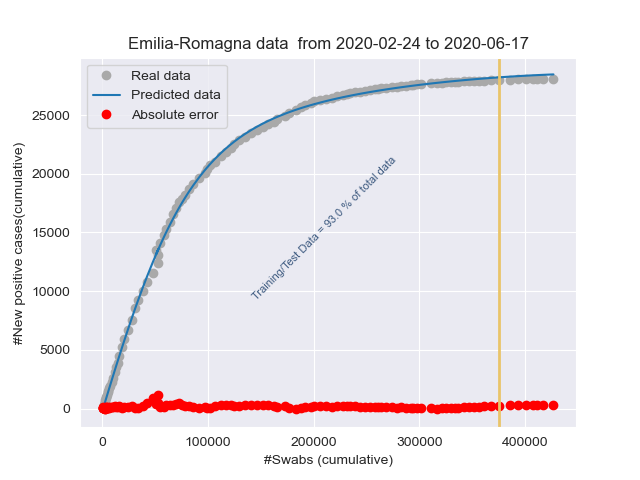
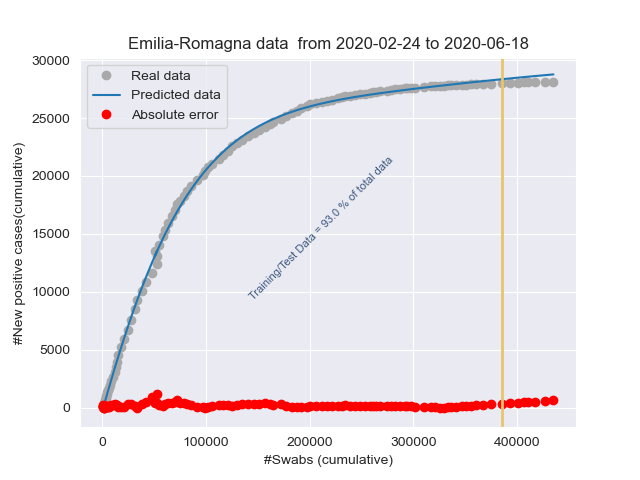
Add files via upload

diff --git a/stat_Friuli Venezia Giulia.html b/stat_Friuli Venezia Giulia.html
@@ -1,1 +1,1 @@
-<!DOCTYPE html><html lang="it"><head><title>Results</title><meta charset="utf-8"><meta name="viewport" content="width=device-width, initial-scale=1"><link rel="stylesheet" href="bootstrap.min.css"><script src="https://ajax.googleapis.com/ajax/libs/jquery/3.4.1/jquery.min.js"></script><script src="https://maxcdn.bootstrapcdn.com/bootstrap/3.4.1/js/bootstrap.min.js"></script></head><body><h3>Day: 2020-06-17</h3><p class="lead my-3">New positive cases: <b>2</b></p><p class="lead my-3">Variation of positive cases: <b>100.0%</b></p><p class="lead my-3">Number of swabs: <b>3624.0</b></p><p class="lead my-3">Variation of swabs: <b>2.23%</b></p><p class="lead my-3">Postive cases/Swabs: <b>0.06 %</b></p><p class="lead my-3">Number of people admitted to Intensive care: <b>0</b></p><p class="lead my-3">Number of recovered people: <b>2.0</b></p><p class="lead my-3">Number of dead people: <b>0.0</b></p><h3>Total</h3><p class="lead my-3">Population of  Friuli Venezia Giulia: <b>1215220</b> <a href="http://dati.istat.it/Index.aspx?QueryId=18548" target="_blank">ISTAT data</a></p><p class="lead my-3">Total number of positive cases from 2020-02-24 00:00:00 to 2020-06-17: <b> 3299</b></p><p class="lead my-3">Total number of swabs from 2020-02-24 00:00:00 to 2020-06-17: <b> 166064</b></p><p class="lead my-3">TotalSwabs/Population: <b> 13.67%</b></p></body></html>
+<!DOCTYPE html><html lang="it"><head><title>Results</title><meta charset="utf-8"><meta name="viewport" content="width=device-width, initial-scale=1"><link rel="stylesheet" href="bootstrap.min.css"><script src="https://ajax.googleapis.com/ajax/libs/jquery/3.4.1/jquery.min.js"></script><script src="https://maxcdn.bootstrapcdn.com/bootstrap/3.4.1/js/bootstrap.min.js"></script></head><body><h3>Day: 2020-06-18</h3><p class="lead my-3">New positive cases: <b>2</b></p><p class="lead my-3">Variation of positive cases: <b>0.0%</b></p><p class="lead my-3">Number of swabs: <b>1421.0</b></p><p class="lead my-3">Variation of swabs: <b>0.86%</b></p><p class="lead my-3">Postive cases/Swabs: <b>0.14 %</b></p><p class="lead my-3">Number of people admitted to Intensive care: <b>1</b></p><p class="lead my-3">Number of recovered people: <b>4.0</b></p><p class="lead my-3">Number of dead people: <b>0.0</b></p><h3>Total</h3><p class="lead my-3">Population of  Friuli Venezia Giulia: <b>1215220</b> <a href="http://dati.istat.it/Index.aspx?QueryId=18548" target="_blank">ISTAT data</a></p><p class="lead my-3">Total number of positive cases from 2020-02-24 00:00:00 to 2020-06-18: <b> 3301</b></p><p class="lead my-3">Total number of swabs from 2020-02-24 00:00:00 to 2020-06-18: <b> 167485</b></p><p class="lead my-3">TotalSwabs/Population: <b> 13.78%</b></p></body></html>

diff --git a/stat_Lombardia.html b/stat_Lombardia.html
@@ -1,1 +1,1 @@
-<!DOCTYPE html><html lang="it"><head><title>Results</title><meta charset="utf-8"><meta name="viewport" content="width=device-width, initial-scale=1"><link rel="stylesheet" href="bootstrap.min.css"><script src="https://ajax.googleapis.com/ajax/libs/jquery/3.4.1/jquery.min.js"></script><script src="https://maxcdn.bootstrapcdn.com/bootstrap/3.4.1/js/bootstrap.min.js"></script></head><body><h3>Day: 2020-06-17</h3><p class="lead my-3">New positive cases: <b>242</b></p><p class="lead my-3">Variation of positive cases: <b>69.23%</b></p><p class="lead my-3">Number of swabs: <b>11559.0</b></p><p class="lead my-3">Variation of swabs: <b>1.28%</b></p><p class="lead my-3">Postive cases/Swabs: <b>2.09 %</b></p><p class="lead my-3">Number of people admitted to Intensive care: <b>59</b></p><p class="lead my-3">Number of recovered people: <b>489.0</b></p><p class="lead my-3">Number of dead people: <b>14.0</b></p><h3>Total</h3><p class="lead my-3">Population of  Lombardia: <b>10060574</b> <a href="http://dati.istat.it/Index.aspx?QueryId=18548" target="_blank">ISTAT data</a></p><p class="lead my-3">Total number of positive cases from 2020-02-24 00:00:00 to 2020-06-17: <b> 92296</b></p><p class="lead my-3">Total number of swabs from 2020-02-24 00:00:00 to 2020-06-17: <b> 917881</b></p><p class="lead my-3">TotalSwabs/Population: <b> 9.12%</b></p></body></html>
+<!DOCTYPE html><html lang="it"><head><title>Results</title><meta charset="utf-8"><meta name="viewport" content="width=device-width, initial-scale=1"><link rel="stylesheet" href="bootstrap.min.css"><script src="https://ajax.googleapis.com/ajax/libs/jquery/3.4.1/jquery.min.js"></script><script src="https://maxcdn.bootstrapcdn.com/bootstrap/3.4.1/js/bootstrap.min.js"></script></head><body><h3>Day: 2020-06-18</h3><p class="lead my-3">New positive cases: <b>216</b></p><p class="lead my-3">Variation of positive cases: <b>-10.74%</b></p><p class="lead my-3">Number of swabs: <b>11475.0</b></p><p class="lead my-3">Variation of swabs: <b>1.25%</b></p><p class="lead my-3">Postive cases/Swabs: <b>1.88 %</b></p><p class="lead my-3">Number of people admitted to Intensive care: <b>60</b></p><p class="lead my-3">Number of recovered people: <b>505.0</b></p><p class="lead my-3">Number of dead people: <b>36.0</b></p><h3>Total</h3><p class="lead my-3">Population of  Lombardia: <b>10060574</b> <a href="http://dati.istat.it/Index.aspx?QueryId=18548" target="_blank">ISTAT data</a></p><p class="lead my-3">Total number of positive cases from 2020-02-24 00:00:00 to 2020-06-18: <b> 92512</b></p><p class="lead my-3">Total number of swabs from 2020-02-24 00:00:00 to 2020-06-18: <b> 929356</b></p><p class="lead my-3">TotalSwabs/Population: <b> 9.24%</b></p></body></html>

diff --git a/stat_Emilia-Romagna.html b/stat_Emilia-Romagna.html
@@ -1,1 +1,1 @@
-<!DOCTYPE html><html lang="it"><head><title>Results</title><meta charset="utf-8"><meta name="viewport" content="width=device-width, initial-scale=1"><link rel="stylesheet" href="bootstrap.min.css"><script src="https://ajax.googleapis.com/ajax/libs/jquery/3.4.1/jquery.min.js"></script><script src="https://maxcdn.bootstrapcdn.com/bootstrap/3.4.1/js/bootstrap.min.js"></script></head><body><h3>Day: 2020-06-17</h3><p class="lead my-3">New positive cases: <b>14</b></p><p class="lead my-3">Variation of positive cases: <b>7.69%</b></p><p class="lead my-3">Number of swabs: <b>9546.0</b></p><p class="lead my-3">Variation of swabs: <b>2.29%</b></p><p class="lead my-3">Postive cases/Swabs: <b>0.15 %</b></p><p class="lead my-3">Number of people admitted to Intensive care: <b>11</b></p><p class="lead my-3">Number of recovered people: <b>68.0</b></p><p class="lead my-3">Number of dead people: <b>6.0</b></p><h3>Total</h3><p class="lead my-3">Population of  Emilia-Romagna: <b>4459477</b> <a href="http://dati.istat.it/Index.aspx?QueryId=18548" target="_blank">ISTAT data</a></p><p class="lead my-3">Total number of positive cases from 2020-02-24 00:00:00 to 2020-06-17: <b> 28111</b></p><p class="lead my-3">Total number of swabs from 2020-02-24 00:00:00 to 2020-06-17: <b> 426730</b></p><p class="lead my-3">TotalSwabs/Population: <b> 9.57%</b></p></body></html>
+<!DOCTYPE html><html lang="it"><head><title>Results</title><meta charset="utf-8"><meta name="viewport" content="width=device-width, initial-scale=1"><link rel="stylesheet" href="bootstrap.min.css"><script src="https://ajax.googleapis.com/ajax/libs/jquery/3.4.1/jquery.min.js"></script><script src="https://maxcdn.bootstrapcdn.com/bootstrap/3.4.1/js/bootstrap.min.js"></script></head><body><h3>Day: 2020-06-18</h3><p class="lead my-3">New positive cases: <b>32</b></p><p class="lead my-3">Variation of positive cases: <b>128.57%</b></p><p class="lead my-3">Number of swabs: <b>8621.0</b></p><p class="lead my-3">Variation of swabs: <b>2.02%</b></p><p class="lead my-3">Postive cases/Swabs: <b>0.37 %</b></p><p class="lead my-3">Number of people admitted to Intensive care: <b>11</b></p><p class="lead my-3">Number of recovered people: <b>92.0</b></p><p class="lead my-3">Number of dead people: <b>4.0</b></p><h3>Total</h3><p class="lead my-3">Population of  Emilia-Romagna: <b>4459477</b> <a href="http://dati.istat.it/Index.aspx?QueryId=18548" target="_blank">ISTAT data</a></p><p class="lead my-3">Total number of positive cases from 2020-02-24 00:00:00 to 2020-06-18: <b> 28143</b></p><p class="lead my-3">Total number of swabs from 2020-02-24 00:00:00 to 2020-06-18: <b> 435351</b></p><p class="lead my-3">TotalSwabs/Population: <b> 9.76%</b></p></body></html>

diff --git a/stat_Italy.html b/stat_Italy.html
@@ -1,1 +1,1 @@
-<!DOCTYPE html><html lang="it"><head><title>Results</title><meta charset="utf-8"><meta name="viewport" content="width=device-width, initial-scale=1"><link rel="stylesheet" href="bootstrap.min.css"><script src="https://ajax.googleapis.com/ajax/libs/jquery/3.4.1/jquery.min.js"></script><script src="https://maxcdn.bootstrapcdn.com/bootstrap/3.4.1/js/bootstrap.min.js"></script></head><body><h3>Day: 2020-06-17</h3><p class="lead my-3">New positive cases: <b>329</b></p><p class="lead my-3">Variation of positive cases: <b>56.67%</b></p><p class="lead my-3">Number of swabs: <b>77701.0</b></p><p class="lead my-3">Variation of swabs: <b>1.65%</b></p><p class="lead my-3">Postive cases/Swabs: <b>0.42 %</b></p><p class="lead my-3">Number of people admitted to Intensive care: <b>163</b></p><p class="lead my-3">Number of recovered people: <b>929.0</b></p><p class="lead my-3">Number of dead people: <b>43.0</b></p><h3>Total</h3><p class="lead my-3">Population of  Italy: <b>60359546</b> <a href="http://dati.istat.it/Index.aspx?QueryId=18548" target="_blank">ISTAT data</a></p><p class="lead my-3">Total number of positive cases from 2020-02-24 00:00:00 to 2020-06-17: <b> 237823</b></p><p class="lead my-3">Total number of swabs from 2020-02-24 00:00:00 to 2020-06-17: <b> 4773408</b></p><p class="lead my-3">TotalSwabs/Population: <b> 7.91%</b></p></body></html>
+<!DOCTYPE html><html lang="it"><head><title>Results</title><meta charset="utf-8"><meta name="viewport" content="width=device-width, initial-scale=1"><link rel="stylesheet" href="bootstrap.min.css"><script src="https://ajax.googleapis.com/ajax/libs/jquery/3.4.1/jquery.min.js"></script><script src="https://maxcdn.bootstrapcdn.com/bootstrap/3.4.1/js/bootstrap.min.js"></script></head><body><h3>Day: 2020-06-18</h3><p class="lead my-3">New positive cases: <b>333</b></p><p class="lead my-3">Variation of positive cases: <b>1.22%</b></p><p class="lead my-3">Number of swabs: <b>58154.0</b></p><p class="lead my-3">Variation of swabs: <b>1.22%</b></p><p class="lead my-3">Postive cases/Swabs: <b>0.57 %</b></p><p class="lead my-3">Number of people admitted to Intensive care: <b>168</b></p><p class="lead my-3">Number of recovered people: <b>1089.0</b></p><p class="lead my-3">Number of dead people: <b>66.0</b></p><h3>Total</h3><p class="lead my-3">Population of  Italy: <b>60359546</b> <a href="http://dati.istat.it/Index.aspx?QueryId=18548" target="_blank">ISTAT data</a></p><p class="lead my-3">Total number of positive cases from 2020-02-24 00:00:00 to 2020-06-18: <b> 238156</b></p><p class="lead my-3">Total number of swabs from 2020-02-24 00:00:00 to 2020-06-18: <b> 4831562</b></p><p class="lead my-3">TotalSwabs/Population: <b> 8.0%</b></p></body></html>

diff --git a/stat_Piemonte.html b/stat_Piemonte.html
@@ -1,1 +1,1 @@
-<!DOCTYPE html><html lang="it"><head><title>Results</title><meta charset="utf-8"><meta name="viewport" content="width=device-width, initial-scale=1"><link rel="stylesheet" href="bootstrap.min.css"><script src="https://ajax.googleapis.com/ajax/libs/jquery/3.4.1/jquery.min.js"></script><script src="https://maxcdn.bootstrapcdn.com/bootstrap/3.4.1/js/bootstrap.min.js"></script></head><body><h3>Day: 2020-06-17</h3><p class="lead my-3">New positive cases: <b>41</b></p><p class="lead my-3">Variation of positive cases: <b>41.38%</b></p><p class="lead my-3">Number of swabs: <b>4217.0</b></p><p class="lead my-3">Variation of swabs: <b>1.13%</b></p><p class="lead my-3">Postive cases/Swabs: <b>0.97 %</b></p><p class="lead my-3">Number of people admitted to Intensive care: <b>25</b></p><p class="lead my-3">Number of recovered people: <b>98.0</b></p><p class="lead my-3">Number of dead people: <b>8.0</b></p><h3>Total</h3><p class="lead my-3">Population of  Piemonte: <b>4356406</b> <a href="http://dati.istat.it/Index.aspx?QueryId=18548" target="_blank">ISTAT data</a></p><p class="lead my-3">Total number of positive cases from 2020-02-24 00:00:00 to 2020-06-17: <b> 31131</b></p><p class="lead my-3">Total number of swabs from 2020-02-24 00:00:00 to 2020-06-17: <b> 377165</b></p><p class="lead my-3">TotalSwabs/Population: <b> 8.66%</b></p></body></html>
+<!DOCTYPE html><html lang="it"><head><title>Results</title><meta charset="utf-8"><meta name="viewport" content="width=device-width, initial-scale=1"><link rel="stylesheet" href="bootstrap.min.css"><script src="https://ajax.googleapis.com/ajax/libs/jquery/3.4.1/jquery.min.js"></script><script src="https://maxcdn.bootstrapcdn.com/bootstrap/3.4.1/js/bootstrap.min.js"></script></head><body><h3>Day: 2020-06-18</h3><p class="lead my-3">New positive cases: <b>31</b></p><p class="lead my-3">Variation of positive cases: <b>-24.39%</b></p><p class="lead my-3">Number of swabs: <b>3230.0</b></p><p class="lead my-3">Variation of swabs: <b>0.86%</b></p><p class="lead my-3">Postive cases/Swabs: <b>0.96 %</b></p><p class="lead my-3">Number of people admitted to Intensive care: <b>25</b></p><p class="lead my-3">Number of recovered people: <b>120.0</b></p><p class="lead my-3">Number of dead people: <b>6.0</b></p><h3>Total</h3><p class="lead my-3">Population of  Piemonte: <b>4356406</b> <a href="http://dati.istat.it/Index.aspx?QueryId=18548" target="_blank">ISTAT data</a></p><p class="lead my-3">Total number of positive cases from 2020-02-24 00:00:00 to 2020-06-18: <b> 31162</b></p><p class="lead my-3">Total number of swabs from 2020-02-24 00:00:00 to 2020-06-18: <b> 380395</b></p><p class="lead my-3">TotalSwabs/Population: <b> 8.73%</b></p></body></html>

diff --git a/stat_P.A. Trento.html b/stat_P.A. Trento.html
@@ -1,1 +1,1 @@
-<!DOCTYPE html><html lang="it"><head><title>Results</title><meta charset="utf-8"><meta name="viewport" content="width=device-width, initial-scale=1"><link rel="stylesheet" href="bootstrap.min.css"><script src="https://ajax.googleapis.com/ajax/libs/jquery/3.4.1/jquery.min.js"></script><script src="https://maxcdn.bootstrapcdn.com/bootstrap/3.4.1/js/bootstrap.min.js"></script></head><body><h3>Day: 2020-06-17</h3><p class="lead my-3">New positive cases: <b>1</b></p><p class="lead my-3">Variation of positive cases: <b>inf%</b></p><p class="lead my-3">Number of swabs: <b>1145.0</b></p><p class="lead my-3">Variation of swabs: <b>1.09%</b></p><p class="lead my-3">Postive cases/Swabs: <b>0.09 %</b></p><p class="lead my-3">Number of people admitted to Intensive care: <b>0</b></p><p class="lead my-3">Number of recovered people: <b>7.0</b></p><p class="lead my-3">Number of dead people: <b>0.0</b></p><h3>Total</h3><p class="lead my-3">Population of  P.A. Trento: <b>541098</b> <a href="http://dati.istat.it/Index.aspx?QueryId=18548" target="_blank">ISTAT data</a></p><p class="lead my-3">Total number of positive cases from 2020-02-24 00:00:00 to 2020-06-17: <b> 4449</b></p><p class="lead my-3">Total number of swabs from 2020-02-24 00:00:00 to 2020-06-17: <b> 105841</b></p><p class="lead my-3">TotalSwabs/Population: <b> 19.56%</b></p></body></html>
+<!DOCTYPE html><html lang="it"><head><title>Results</title><meta charset="utf-8"><meta name="viewport" content="width=device-width, initial-scale=1"><link rel="stylesheet" href="bootstrap.min.css"><script src="https://ajax.googleapis.com/ajax/libs/jquery/3.4.1/jquery.min.js"></script><script src="https://maxcdn.bootstrapcdn.com/bootstrap/3.4.1/js/bootstrap.min.js"></script></head><body><h3>Day: 2020-06-18</h3><p class="lead my-3">New positive cases: <b>8</b></p><p class="lead my-3">Variation of positive cases: <b>700.0%</b></p><p class="lead my-3">Number of swabs: <b>1525.0</b></p><p class="lead my-3">Variation of swabs: <b>1.44%</b></p><p class="lead my-3">Postive cases/Swabs: <b>0.52 %</b></p><p class="lead my-3">Number of people admitted to Intensive care: <b>0</b></p><p class="lead my-3">Number of recovered people: <b>7.0</b></p><p class="lead my-3">Number of dead people: <b>0.0</b></p><h3>Total</h3><p class="lead my-3">Population of  P.A. Trento: <b>541098</b> <a href="http://dati.istat.it/Index.aspx?QueryId=18548" target="_blank">ISTAT data</a></p><p class="lead my-3">Total number of positive cases from 2020-02-24 00:00:00 to 2020-06-18: <b> 4457</b></p><p class="lead my-3">Total number of swabs from 2020-02-24 00:00:00 to 2020-06-18: <b> 107366</b></p><p class="lead my-3">TotalSwabs/Population: <b> 19.84%</b></p></body></html>

diff --git a/stat_Veneto.html b/stat_Veneto.html
@@ -1,1 +1,1 @@
-<!DOCTYPE html><html lang="it"><head><title>Results</title><meta charset="utf-8"><meta name="viewport" content="width=device-width, initial-scale=1"><link rel="stylesheet" href="bootstrap.min.css"><script src="https://ajax.googleapis.com/ajax/libs/jquery/3.4.1/jquery.min.js"></script><script src="https://maxcdn.bootstrapcdn.com/bootstrap/3.4.1/js/bootstrap.min.js"></script></head><body><h3>Day: 2020-06-17</h3><p class="lead my-3">New positive cases: <b>4</b></p><p class="lead my-3">Variation of positive cases: <b>300.0%</b></p><p class="lead my-3">Number of swabs: <b>11202.0</b></p><p class="lead my-3">Variation of swabs: <b>1.36%</b></p><p class="lead my-3">Postive cases/Swabs: <b>0.04 %</b></p><p class="lead my-3">Number of people admitted to Intensive care: <b>1</b></p><p class="lead my-3">Number of recovered people: <b>37.0</b></p><p class="lead my-3">Number of dead people: <b>5.0</b></p><h3>Total</h3><p class="lead my-3">Population of  Veneto: <b>4905854</b> <a href="http://dati.istat.it/Index.aspx?QueryId=18548" target="_blank">ISTAT data</a></p><p class="lead my-3">Total number of positive cases from 2020-02-24 00:00:00 to 2020-06-17: <b> 19224</b></p><p class="lead my-3">Total number of swabs from 2020-02-24 00:00:00 to 2020-06-17: <b> 837394</b></p><p class="lead my-3">TotalSwabs/Population: <b> 17.07%</b></p></body></html>
+<!DOCTYPE html><html lang="it"><head><title>Results</title><meta charset="utf-8"><meta name="viewport" content="width=device-width, initial-scale=1"><link rel="stylesheet" href="bootstrap.min.css"><script src="https://ajax.googleapis.com/ajax/libs/jquery/3.4.1/jquery.min.js"></script><script src="https://maxcdn.bootstrapcdn.com/bootstrap/3.4.1/js/bootstrap.min.js"></script></head><body><h3>Day: 2020-06-18</h3><p class="lead my-3">New positive cases: <b>8</b></p><p class="lead my-3">Variation of positive cases: <b>100.0%</b></p><p class="lead my-3">Number of swabs: <b>10603.0</b></p><p class="lead my-3">Variation of swabs: <b>1.27%</b></p><p class="lead my-3">Postive cases/Swabs: <b>0.08 %</b></p><p class="lead my-3">Number of people admitted to Intensive care: <b>1</b></p><p class="lead my-3">Number of recovered people: <b>74.0</b></p><p class="lead my-3">Number of dead people: <b>7.0</b></p><h3>Total</h3><p class="lead my-3">Population of  Veneto: <b>4905854</b> <a href="http://dati.istat.it/Index.aspx?QueryId=18548" target="_blank">ISTAT data</a></p><p class="lead my-3">Total number of positive cases from 2020-02-24 00:00:00 to 2020-06-18: <b> 19232</b></p><p class="lead my-3">Total number of swabs from 2020-02-24 00:00:00 to 2020-06-18: <b> 847997</b></p><p class="lead my-3">TotalSwabs/Population: <b> 17.29%</b></p></body></html>

diff --git a/stat_Toscana.html b/stat_Toscana.html
@@ -1,1 +1,1 @@
-<!DOCTYPE html><html lang="it"><head><title>Results</title><meta charset="utf-8"><meta name="viewport" content="width=device-width, initial-scale=1"><link rel="stylesheet" href="bootstrap.min.css"><script src="https://ajax.googleapis.com/ajax/libs/jquery/3.4.1/jquery.min.js"></script><script src="https://maxcdn.bootstrapcdn.com/bootstrap/3.4.1/js/bootstrap.min.js"></script></head><body><h3>Day: 2020-06-17</h3><p class="lead my-3">New positive cases: <b>2</b></p><p class="lead my-3">Variation of positive cases: <b>-33.33%</b></p><p class="lead my-3">Number of swabs: <b>3800.0</b></p><p class="lead my-3">Variation of swabs: <b>1.28%</b></p><p class="lead my-3">Postive cases/Swabs: <b>0.05 %</b></p><p class="lead my-3">Number of people admitted to Intensive care: <b>14</b></p><p class="lead my-3">Number of recovered people: <b>20.0</b></p><p class="lead my-3">Number of dead people: <b>1.0</b></p><h3>Total</h3><p class="lead my-3">Population of  Toscana: <b>3729641</b> <a href="http://dati.istat.it/Index.aspx?QueryId=18548" target="_blank">ISTAT data</a></p><p class="lead my-3">Total number of positive cases from 2020-02-24 00:00:00 to 2020-06-17: <b> 10193</b></p><p class="lead my-3">Total number of swabs from 2020-02-24 00:00:00 to 2020-06-17: <b> 300612</b></p><p class="lead my-3">TotalSwabs/Population: <b> 8.06%</b></p></body></html>
+<!DOCTYPE html><html lang="it"><head><title>Results</title><meta charset="utf-8"><meta name="viewport" content="width=device-width, initial-scale=1"><link rel="stylesheet" href="bootstrap.min.css"><script src="https://ajax.googleapis.com/ajax/libs/jquery/3.4.1/jquery.min.js"></script><script src="https://maxcdn.bootstrapcdn.com/bootstrap/3.4.1/js/bootstrap.min.js"></script></head><body><h3>Day: 2020-06-18</h3><p class="lead my-3">New positive cases: <b>2</b></p><p class="lead my-3">Variation of positive cases: <b>0.0%</b></p><p class="lead my-3">Number of swabs: <b>3174.0</b></p><p class="lead my-3">Variation of swabs: <b>1.06%</b></p><p class="lead my-3">Postive cases/Swabs: <b>0.06 %</b></p><p class="lead my-3">Number of people admitted to Intensive care: <b>13</b></p><p class="lead my-3">Number of recovered people: <b>7.0</b></p><p class="lead my-3">Number of dead people: <b>1.0</b></p><h3>Total</h3><p class="lead my-3">Population of  Toscana: <b>3729641</b> <a href="http://dati.istat.it/Index.aspx?QueryId=18548" target="_blank">ISTAT data</a></p><p class="lead my-3">Total number of positive cases from 2020-02-24 00:00:00 to 2020-06-18: <b> 10195</b></p><p class="lead my-3">Total number of swabs from 2020-02-24 00:00:00 to 2020-06-18: <b> 303786</b></p><p class="lead my-3">TotalSwabs/Population: <b> 8.15%</b></p></body></html>

diff --git a/stat_Campania.html b/stat_Campania.html
@@ -1,1 +1,1 @@
-<!DOCTYPE html><html lang="it"><head><title>Results</title><meta charset="utf-8"><meta name="viewport" content="width=device-width, initial-scale=1"><link rel="stylesheet" href="bootstrap.min.css"><script src="https://ajax.googleapis.com/ajax/libs/jquery/3.4.1/jquery.min.js"></script><script src="https://maxcdn.bootstrapcdn.com/bootstrap/3.4.1/js/bootstrap.min.js"></script></head><body><h3>Day: 2020-06-17</h3><p class="lead my-3">New positive cases: <b>1</b></p><p class="lead my-3">Variation of positive cases: <b>inf%</b></p><p class="lead my-3">Number of swabs: <b>15545.0</b></p><p class="lead my-3">Variation of swabs: <b>6.41%</b></p><p class="lead my-3">Postive cases/Swabs: <b>0.01 %</b></p><p class="lead my-3">Number of people admitted to Intensive care: <b>2</b></p><p class="lead my-3">Number of recovered people: <b>15.0</b></p><p class="lead my-3">Number of dead people: <b>1.0</b></p><h3>Total</h3><p class="lead my-3">Population of  Campania: <b>5801692</b> <a href="http://dati.istat.it/Index.aspx?QueryId=18548" target="_blank">ISTAT data</a></p><p class="lead my-3">Total number of positive cases from 2020-02-24 00:00:00 to 2020-06-17: <b> 4614</b></p><p class="lead my-3">Total number of swabs from 2020-02-24 00:00:00 to 2020-06-17: <b> 258207</b></p><p class="lead my-3">TotalSwabs/Population: <b> 4.45%</b></p></body></html>
+<!DOCTYPE html><html lang="it"><head><title>Results</title><meta charset="utf-8"><meta name="viewport" content="width=device-width, initial-scale=1"><link rel="stylesheet" href="bootstrap.min.css"><script src="https://ajax.googleapis.com/ajax/libs/jquery/3.4.1/jquery.min.js"></script><script src="https://maxcdn.bootstrapcdn.com/bootstrap/3.4.1/js/bootstrap.min.js"></script></head><body><h3>Day: 2020-06-18</h3><p class="lead my-3">New positive cases: <b>1</b></p><p class="lead my-3">Variation of positive cases: <b>0.0%</b></p><p class="lead my-3">Number of swabs: <b>1448.0</b></p><p class="lead my-3">Variation of swabs: <b>0.56%</b></p><p class="lead my-3">Postive cases/Swabs: <b>0.07 %</b></p><p class="lead my-3">Number of people admitted to Intensive care: <b>6</b></p><p class="lead my-3">Number of recovered people: <b>17.0</b></p><p class="lead my-3">Number of dead people: <b>0.0</b></p><h3>Total</h3><p class="lead my-3">Population of  Campania: <b>5801692</b> <a href="http://dati.istat.it/Index.aspx?QueryId=18548" target="_blank">ISTAT data</a></p><p class="lead my-3">Total number of positive cases from 2020-02-24 00:00:00 to 2020-06-18: <b> 4615</b></p><p class="lead my-3">Total number of swabs from 2020-02-24 00:00:00 to 2020-06-18: <b> 259655</b></p><p class="lead my-3">TotalSwabs/Population: <b> 4.48%</b></p></body></html>

diff --git a/stat_P.A. Bolzano.html b/stat_P.A. Bolzano.html
@@ -1,1 +1,1 @@
-<!DOCTYPE html><html lang="it"><head><title>Results</title><meta charset="utf-8"><meta name="viewport" content="width=device-width, initial-scale=1"><link rel="stylesheet" href="bootstrap.min.css"><script src="https://ajax.googleapis.com/ajax/libs/jquery/3.4.1/jquery.min.js"></script><script src="https://maxcdn.bootstrapcdn.com/bootstrap/3.4.1/js/bootstrap.min.js"></script></head><body><h3>Day: 2020-06-17</h3><p class="lead my-3">New positive cases: <b>0</b></p><p class="lead my-3">Variation of positive cases: <b>0.0%</b></p><p class="lead my-3">Number of swabs: <b>569.0</b></p><p class="lead my-3">Variation of swabs: <b>0.74%</b></p><p class="lead my-3">Postive cases/Swabs: <b>0.0 %</b></p><p class="lead my-3">Number of people admitted to Intensive care: <b>1</b></p><p class="lead my-3">Number of recovered people: <b>6.0</b></p><p class="lead my-3">Number of dead people: <b>0.0</b></p><h3>Total</h3><p class="lead my-3">Population of  P.A. Bolzano: <b>531178</b> <a href="http://dati.istat.it/Index.aspx?QueryId=18548" target="_blank">ISTAT data</a></p><p class="lead my-3">Total number of positive cases from 2020-02-24 00:00:00 to 2020-06-17: <b> 2613</b></p><p class="lead my-3">Total number of swabs from 2020-02-24 00:00:00 to 2020-06-17: <b> 77230</b></p><p class="lead my-3">TotalSwabs/Population: <b> 14.54%</b></p></body></html>
+<!DOCTYPE html><html lang="it"><head><title>Results</title><meta charset="utf-8"><meta name="viewport" content="width=device-width, initial-scale=1"><link rel="stylesheet" href="bootstrap.min.css"><script src="https://ajax.googleapis.com/ajax/libs/jquery/3.4.1/jquery.min.js"></script><script src="https://maxcdn.bootstrapcdn.com/bootstrap/3.4.1/js/bootstrap.min.js"></script></head><body><h3>Day: 2020-06-18</h3><p class="lead my-3">New positive cases: <b>2</b></p><p class="lead my-3">Variation of positive cases: <b>inf%</b></p><p class="lead my-3">Number of swabs: <b>724.0</b></p><p class="lead my-3">Variation of swabs: <b>0.94%</b></p><p class="lead my-3">Postive cases/Swabs: <b>0.28 %</b></p><p class="lead my-3">Number of people admitted to Intensive care: <b>2</b></p><p class="lead my-3">Number of recovered people: <b>4.0</b></p><p class="lead my-3">Number of dead people: <b>0.0</b></p><h3>Total</h3><p class="lead my-3">Population of  P.A. Bolzano: <b>531178</b> <a href="http://dati.istat.it/Index.aspx?QueryId=18548" target="_blank">ISTAT data</a></p><p class="lead my-3">Total number of positive cases from 2020-02-24 00:00:00 to 2020-06-18: <b> 2615</b></p><p class="lead my-3">Total number of swabs from 2020-02-24 00:00:00 to 2020-06-18: <b> 77954</b></p><p class="lead my-3">TotalSwabs/Population: <b> 14.68%</b></p></body></html>

diff --git a/stat_Lazio.html b/stat_Lazio.html
@@ -1,1 +1,1 @@
-<!DOCTYPE html><html lang="it"><head><title>Results</title><meta charset="utf-8"><meta name="viewport" content="width=device-width, initial-scale=1"><link rel="stylesheet" href="bootstrap.min.css"><script src="https://ajax.googleapis.com/ajax/libs/jquery/3.4.1/jquery.min.js"></script><script src="https://maxcdn.bootstrapcdn.com/bootstrap/3.4.1/js/bootstrap.min.js"></script></head><body><h3>Day: 2020-06-17</h3><p class="lead my-3">New positive cases: <b>10</b></p><p class="lead my-3">Variation of positive cases: <b>11.11%</b></p><p class="lead my-3">Number of swabs: <b>3601.0</b></p><p class="lead my-3">Variation of swabs: <b>1.19%</b></p><p class="lead my-3">Postive cases/Swabs: <b>0.28 %</b></p><p class="lead my-3">Number of people admitted to Intensive care: <b>38</b></p><p class="lead my-3">Number of recovered people: <b>96.0</b></p><p class="lead my-3">Number of dead people: <b>4.0</b></p><h3>Total</h3><p class="lead my-3">Population of  Lazio: <b>5879082</b> <a href="http://dati.istat.it/Index.aspx?QueryId=18548" target="_blank">ISTAT data</a></p><p class="lead my-3">Total number of positive cases from 2020-02-24 00:00:00 to 2020-06-17: <b> 7976</b></p><p class="lead my-3">Total number of swabs from 2020-02-24 00:00:00 to 2020-06-17: <b> 305906</b></p><p class="lead my-3">TotalSwabs/Population: <b> 5.2%</b></p></body></html>
+<!DOCTYPE html><html lang="it"><head><title>Results</title><meta charset="utf-8"><meta name="viewport" content="width=device-width, initial-scale=1"><link rel="stylesheet" href="bootstrap.min.css"><script src="https://ajax.googleapis.com/ajax/libs/jquery/3.4.1/jquery.min.js"></script><script src="https://maxcdn.bootstrapcdn.com/bootstrap/3.4.1/js/bootstrap.min.js"></script></head><body><h3>Day: 2020-06-18</h3><p class="lead my-3">New positive cases: <b>9</b></p><p class="lead my-3">Variation of positive cases: <b>-10.0%</b></p><p class="lead my-3">Number of swabs: <b>3263.0</b></p><p class="lead my-3">Variation of swabs: <b>1.07%</b></p><p class="lead my-3">Postive cases/Swabs: <b>0.28 %</b></p><p class="lead my-3">Number of people admitted to Intensive care: <b>38</b></p><p class="lead my-3">Number of recovered people: <b>47.0</b></p><p class="lead my-3">Number of dead people: <b>4.0</b></p><h3>Total</h3><p class="lead my-3">Population of  Lazio: <b>5879082</b> <a href="http://dati.istat.it/Index.aspx?QueryId=18548" target="_blank">ISTAT data</a></p><p class="lead my-3">Total number of positive cases from 2020-02-24 00:00:00 to 2020-06-18: <b> 7985</b></p><p class="lead my-3">Total number of swabs from 2020-02-24 00:00:00 to 2020-06-18: <b> 309169</b></p><p class="lead my-3">TotalSwabs/Population: <b> 5.26%</b></p></body></html>

diff --git a/stat_Liguria.html b/stat_Liguria.html
@@ -1,1 +1,1 @@
-<!DOCTYPE html><html lang="it"><head><title>Results</title><meta charset="utf-8"><meta name="viewport" content="width=device-width, initial-scale=1"><link rel="stylesheet" href="bootstrap.min.css"><script src="https://ajax.googleapis.com/ajax/libs/jquery/3.4.1/jquery.min.js"></script><script src="https://maxcdn.bootstrapcdn.com/bootstrap/3.4.1/js/bootstrap.min.js"></script></head><body><h3>Day: 2020-06-17</h3><p class="lead my-3">New positive cases: <b>5</b></p><p class="lead my-3">Variation of positive cases: <b>25.0%</b></p><p class="lead my-3">Number of swabs: <b>1621.0</b></p><p class="lead my-3">Variation of swabs: <b>1.25%</b></p><p class="lead my-3">Postive cases/Swabs: <b>0.31 %</b></p><p class="lead my-3">Number of people admitted to Intensive care: <b>2</b></p><p class="lead my-3">Number of recovered people: <b>0.0</b></p><p class="lead my-3">Number of dead people: <b>3.0</b></p><h3>Total</h3><p class="lead my-3">Population of  Liguria: <b>1550640</b> <a href="http://dati.istat.it/Index.aspx?QueryId=18548" target="_blank">ISTAT data</a></p><p class="lead my-3">Total number of positive cases from 2020-02-24 00:00:00 to 2020-06-17: <b> 9896</b></p><p class="lead my-3">Total number of swabs from 2020-02-24 00:00:00 to 2020-06-17: <b> 130870</b></p><p class="lead my-3">TotalSwabs/Population: <b> 8.44%</b></p></body></html>
+<!DOCTYPE html><html lang="it"><head><title>Results</title><meta charset="utf-8"><meta name="viewport" content="width=device-width, initial-scale=1"><link rel="stylesheet" href="bootstrap.min.css"><script src="https://ajax.googleapis.com/ajax/libs/jquery/3.4.1/jquery.min.js"></script><script src="https://maxcdn.bootstrapcdn.com/bootstrap/3.4.1/js/bootstrap.min.js"></script></head><body><h3>Day: 2020-06-18</h3><p class="lead my-3">New positive cases: <b>7</b></p><p class="lead my-3">Variation of positive cases: <b>40.0%</b></p><p class="lead my-3">Number of swabs: <b>1505.0</b></p><p class="lead my-3">Variation of swabs: <b>1.15%</b></p><p class="lead my-3">Postive cases/Swabs: <b>0.47 %</b></p><p class="lead my-3">Number of people admitted to Intensive care: <b>2</b></p><p class="lead my-3">Number of recovered people: <b>1.0</b></p><p class="lead my-3">Number of dead people: <b>4.0</b></p><h3>Total</h3><p class="lead my-3">Population of  Liguria: <b>1550640</b> <a href="http://dati.istat.it/Index.aspx?QueryId=18548" target="_blank">ISTAT data</a></p><p class="lead my-3">Total number of positive cases from 2020-02-24 00:00:00 to 2020-06-18: <b> 9903</b></p><p class="lead my-3">Total number of swabs from 2020-02-24 00:00:00 to 2020-06-18: <b> 132375</b></p><p class="lead my-3">TotalSwabs/Population: <b> 8.54%</b></p></body></html>
